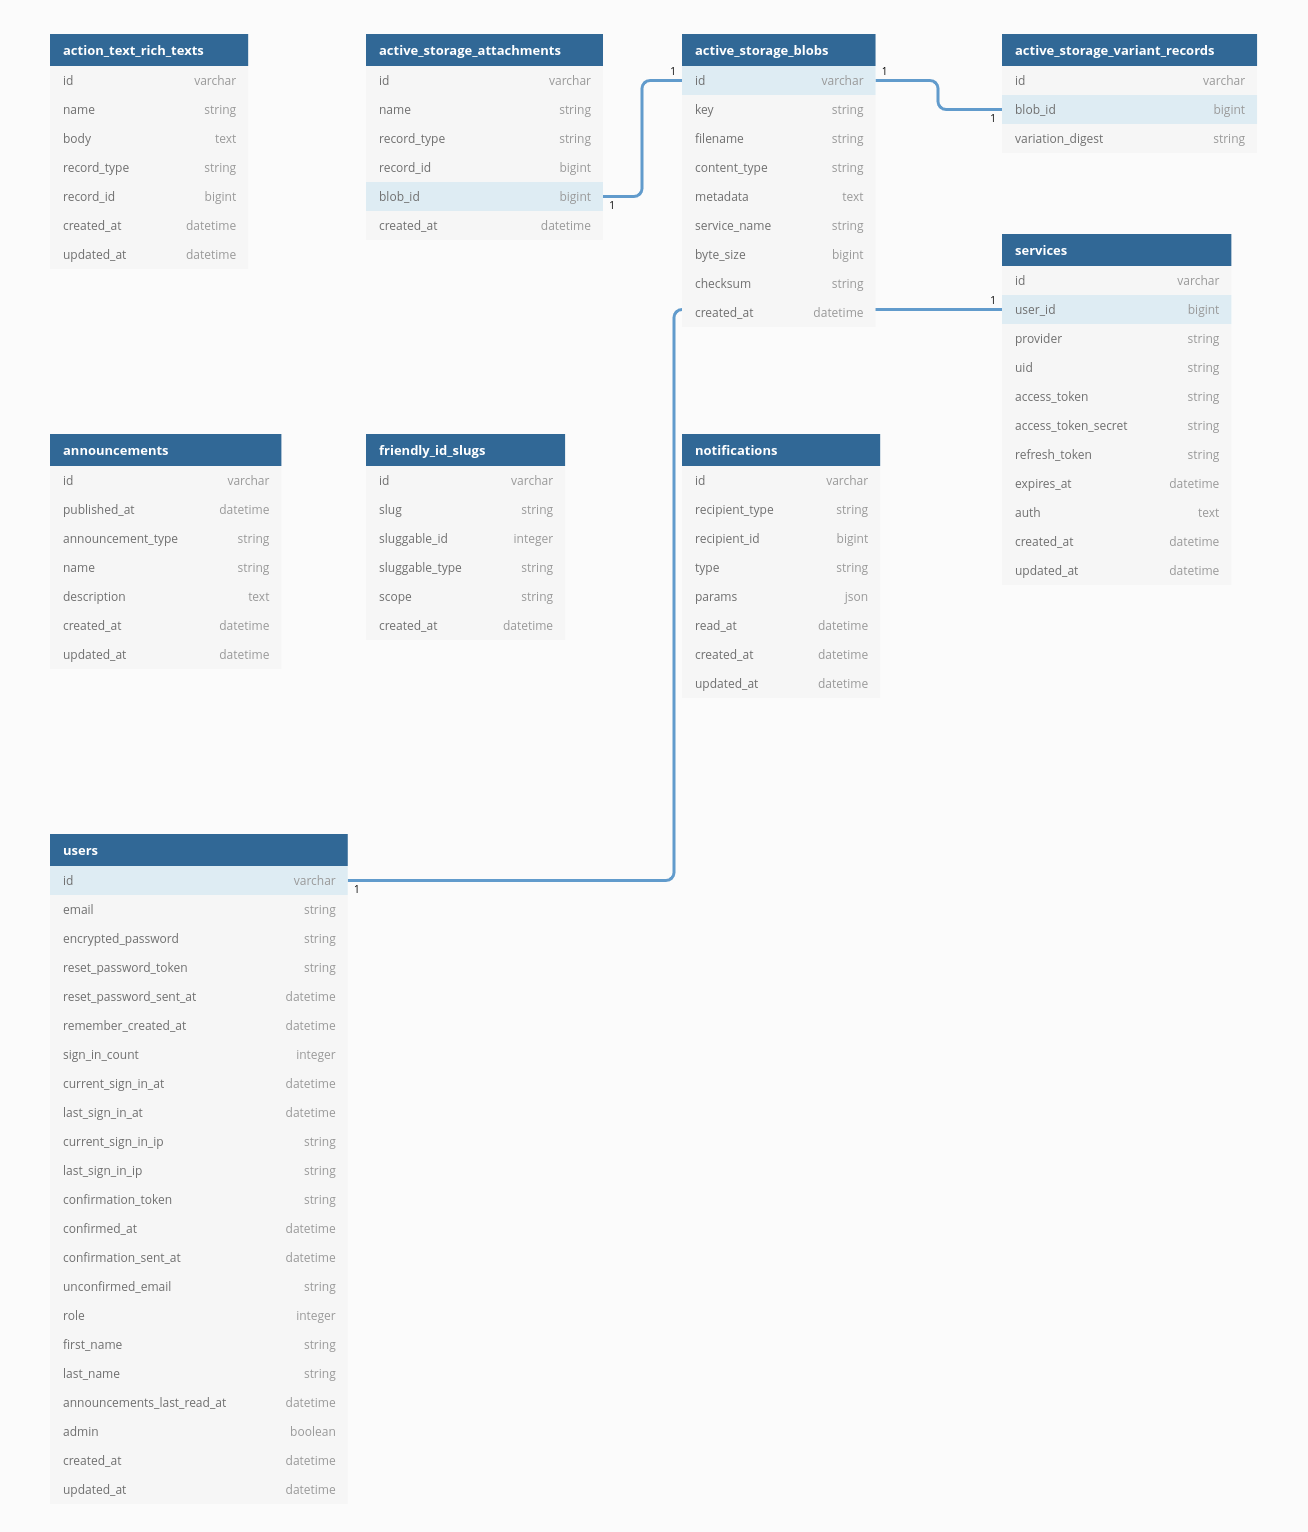
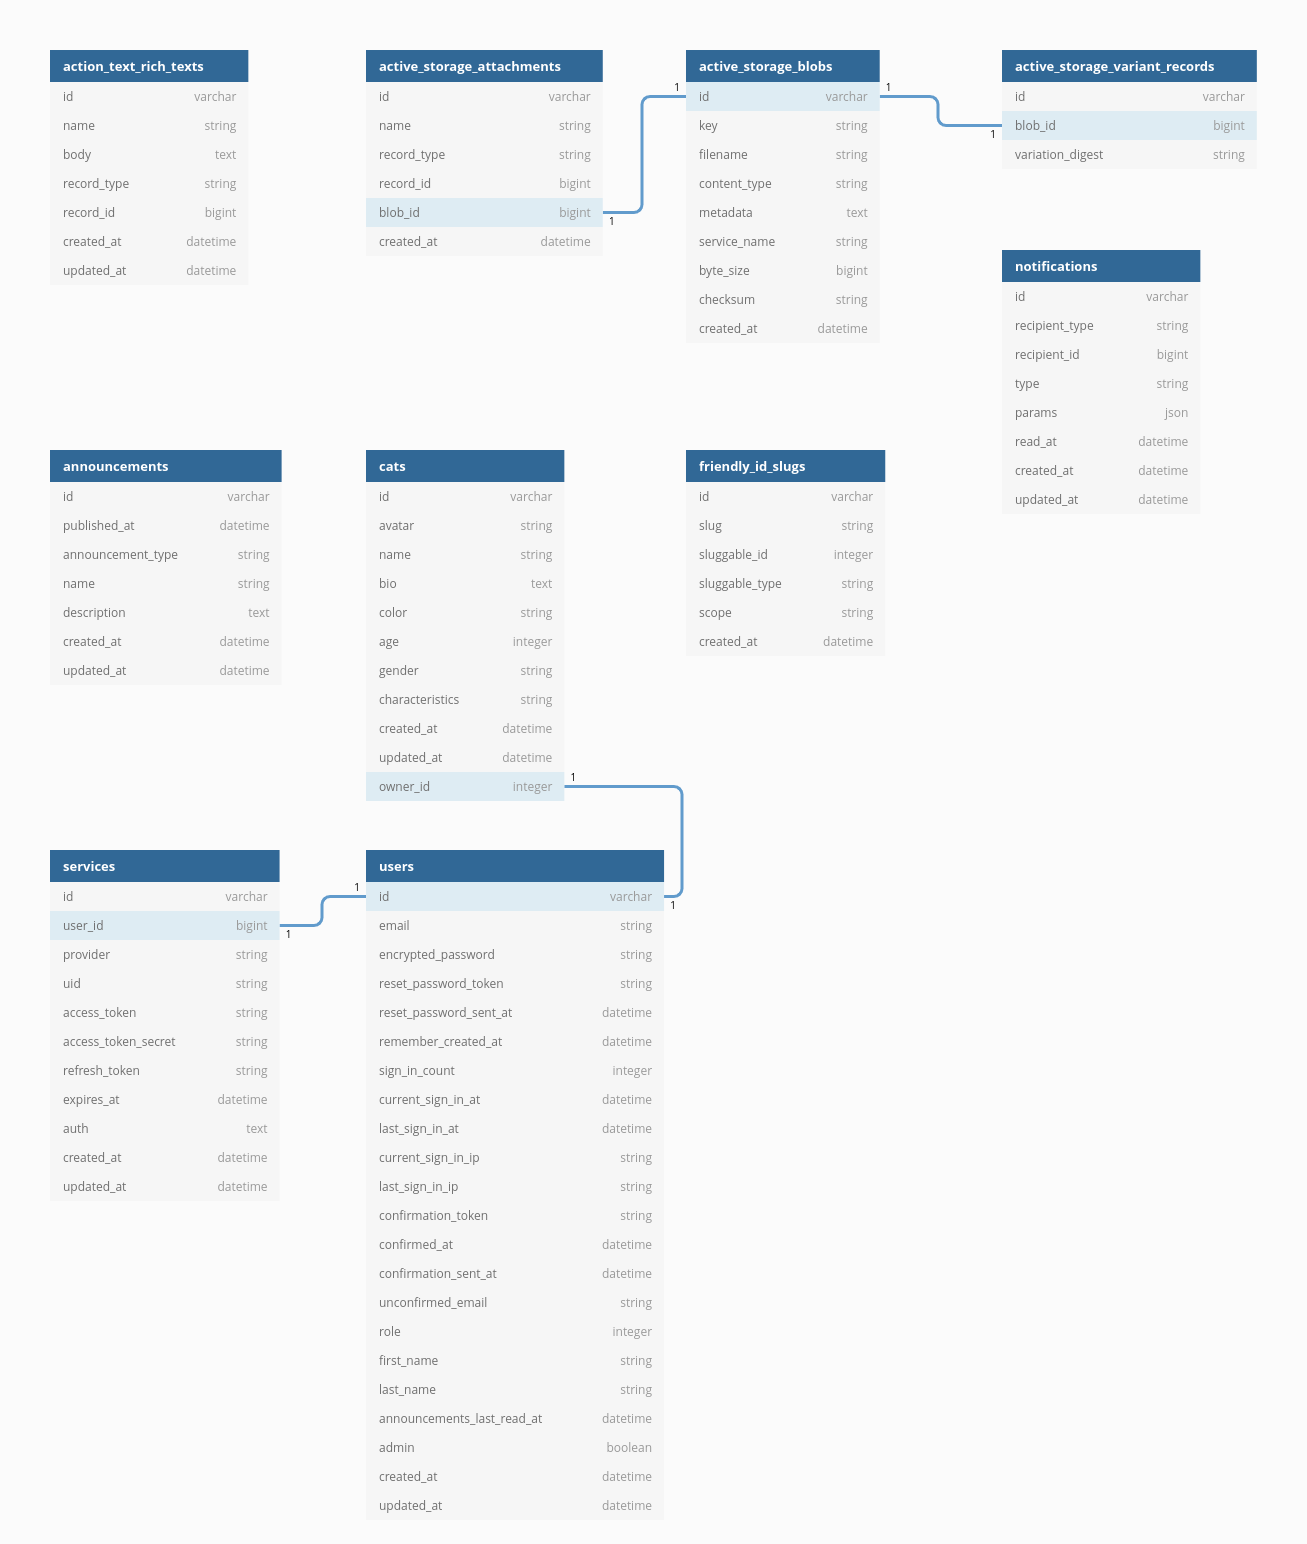
Commit

diff --git a/app/models/user.rb b/app/models/user.rb
@@ -21,7 +21,7 @@
 #  remember_created_at        :datetime
 #  reset_password_sent_at     :datetime
 #  reset_password_token       :string
-#  role                       :integer(4)       default("user"), not null
+#  role                       :integer(4)       default("owner"), not null
 #  sign_in_count              :integer(4)       default(0), not null
 #  unconfirmed_email          :string
 #  created_at                 :datetime         not null
@@ -38,13 +38,12 @@ class User < ApplicationRecord
          :rememberable, :validatable, :omniauthable
   # Roles, add other roles as required
   enum role: {
-    user: 0,
-    member: 1
+    owner: 0
   }, _prefix: true
 
   after_initialize :set_default_role, if: :new_record?
   def set_default_role
-    self.role ||= :user
+    self.role ||= :owner
   end
 
   # Validations, Names, Avatars
@@ -56,15 +55,15 @@ class User < ApplicationRecord
   # Notifications & Services
   has_many :notifications, as: :recipient
   has_many :services
-  # has_many :members
+  has_many :cats
 
   private
 
   # Example role set method
   def set_alt_role
     case role.to_sym
-    when :member
-      self.role = :member
+    when :owner
+      self.role = :owner
     end
   end
 end

diff --git a/db/seeds.rb b/db/seeds.rb
@@ -8,15 +8,27 @@
 #   Character.create(name: "Luke", movie: movies.first)
 #
 require 'faker'
-100.times do
-  cat = Cat.create(
-    avatar: Faker::Avatar.image,
-    name: Faker::Name.name,
-    bio: Faker::Quotes::Shakespeare.romeo_and_juliet_quote,
-    color: Faker::Color.color_name,
-    age: Faker::Number.between(from: 1, to: 10),
-    gender: Faker::Gender.binary_type,
-    characteristics: Faker::Emotion.adjective #=> "chagrined"
+
+# Nested with user
+10.times do
+  user = User.create(
+    first_name: Faker::Name.first_name,
+    last_name: Faker::Name.last_name,
+    email: Faker::Internet.email,
+    password: 'password'
   )
-  cat.save!
+  10.times do 
+    cat = Cat.create(
+      avatar: 'https://picsum.photos/200',
+      name: Faker::Name.name,
+      bio: Faker::Quotes::Shakespeare.romeo_and_juliet_quote,
+      color: Faker::Color.color_name,
+      age: Faker::Number.between(from: 1, to: 10),
+      gender: Faker::Gender.binary_type,
+      characteristics: Faker::Emotion.adjective, #=> "chagrined",
+      owner_id: user.id
+    )
+    cat.save!
+    user.save!
+  end
 end

diff --git a/db/schema.rb b/db/schema.rb
@@ -10,7 +10,7 @@
 #
 # It's strongly recommended that you check this file into your version control system.
 
-ActiveRecord::Schema[7.0].define(version: 2022_04_09_145636) do
+ActiveRecord::Schema[7.0].define(version: 2022_04_09_161106) do
   # These are extensions that must be enabled in order to support this database
   enable_extension "plpgsql"
 
@@ -71,6 +71,8 @@ ActiveRecord::Schema[7.0].define(version: 2022_04_09_145636) do
     t.string "characteristics"
     t.datetime "created_at", null: false
     t.datetime "updated_at", null: false
+    t.integer "owner_id", default: 0, null: false
+    t.index ["owner_id"], name: "index_cats_on_owner_id"
   end
 
   create_table "friendly_id_slugs", force: :cascade do |t|
@@ -139,5 +141,6 @@ ActiveRecord::Schema[7.0].define(version: 2022_04_09_145636) do
 
   add_foreign_key "active_storage_attachments", "active_storage_blobs", column: "blob_id"
   add_foreign_key "active_storage_variant_records", "active_storage_blobs", column: "blob_id"
+  add_foreign_key "cats", "users", column: "owner_id"
   add_foreign_key "services", "users"
 end

diff --git a/test/models/user_test.rb b/test/models/user_test.rb
@@ -21,7 +21,7 @@
 #  remember_created_at        :datetime
 #  reset_password_sent_at     :datetime
 #  reset_password_token       :string
-#  role                       :integer(4)       default("user"), not null
+#  role                       :integer(4)       default("owner"), not null
 #  sign_in_count              :integer(4)       default(0), not null
 #  unconfirmed_email          :string
 #  created_at                 :datetime         not null

diff --git a/app/models/cat.rb b/app/models/cat.rb
@@ -12,6 +12,16 @@
 #  name            :string
 #  created_at      :datetime         not null
 #  updated_at      :datetime         not null
+#  owner_id        :integer(4)       default(0), not null
+#
+# Indexes
+#
+#  index_cats_on_owner_id  (owner_id)
+#
+# Foreign Keys
+#
+#  fk_rails_...  (owner_id => users.id)
 #
 class Cat < ApplicationRecord
+  belongs_to :user, foreign_key: 'owner_id'
 end

diff --git a/spec/factories/cats.rb b/spec/factories/cats.rb
@@ -12,6 +12,15 @@
 #  name            :string
 #  created_at      :datetime         not null
 #  updated_at      :datetime         not null
+#  owner_id        :integer(4)       default(0), not null
+#
+# Indexes
+#
+#  index_cats_on_owner_id  (owner_id)
+#
+# Foreign Keys
+#
+#  fk_rails_...  (owner_id => users.id)
 #
 FactoryBot.define do
   factory :cat do

diff --git a/spec/models/cat_spec.rb b/spec/models/cat_spec.rb
@@ -12,6 +12,15 @@
 #  name            :string
 #  created_at      :datetime         not null
 #  updated_at      :datetime         not null
+#  owner_id        :integer(4)       default(0), not null
+#
+# Indexes
+#
+#  index_cats_on_owner_id  (owner_id)
+#
+# Foreign Keys
+#
+#  fk_rails_...  (owner_id => users.id)
 #
 require 'rails_helper'
 

diff --git a/db/migrate/20220409161106_add_users_to_cats.rb b/db/migrate/20220409161106_add_users_to_cats.rb
@@ -1,0 +1,7 @@
+class AddUsersToCats < ActiveRecord::Migration[7.0]
+  def change
+    add_column :cats, :owner_id, :integer, default: 0, null: false
+    add_foreign_key :cats, :users, column: :owner_id
+    add_index :cats, :owner_id
+  end
+end

diff --git a/README.md b/README.md
@@ -8,6 +8,7 @@
 
 * Admin as boolean flag on User model (manual - switch it in console)
 * Member and other roles as enum integer (hash) on User model (write methods as required, default sign up set as user) No 3rd party gems needed for Roles.
+* example: User.all.update :role => :owner
 
 # JS & CSS Bundling with Rollup - no webpack/webpacker
 
@@ -77,8 +78,8 @@ $ rails s
 
 $ rails action_text:install (already done here)
 
-$ rails generate administrate:install (if use default Administrate, for Admin example = in console: User.first.update :admin => true) )
-
+$ rails generate administrate:install (if use default Administrate, for Admin example = in console: User.first.update :admin => true)
+ 
 # Live reload/watch CSS
 
 $ $ yarn build:css --watch (separate terminal watch/update changes in styles)
